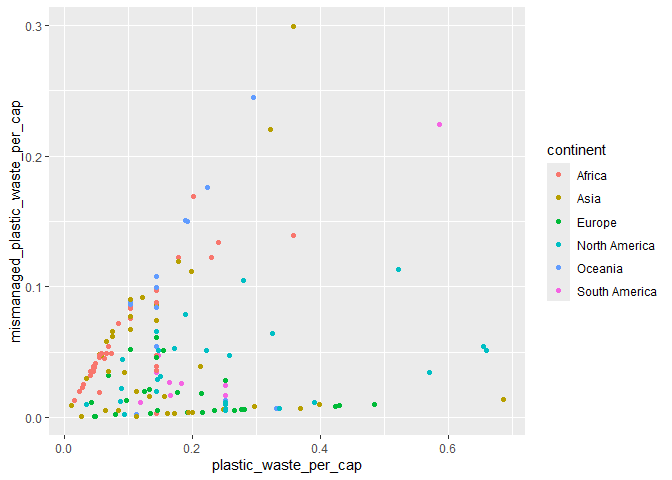
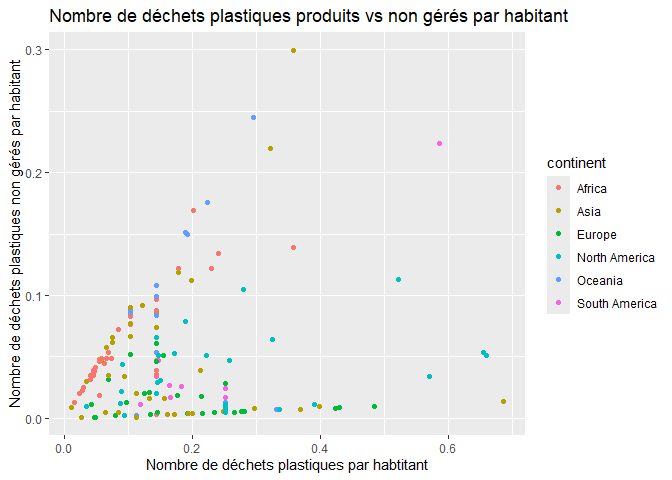
amélioration allure graphique et début conclusion

diff --git a/lab-02.md b/lab-02.md
@@ -47,7 +47,8 @@ ggplot(data = plastic_waste, aes(x = plastic_waste_per_cap)) +
 
 ``` r
 ggplot(plastic_waste, aes(x = plastic_waste_per_cap, colour = continent, fill = continent)) +
-    geom_density(alpha = 0.4)
+    geom_density(alpha = 0.4) +
+  labs(title = "Le densité de déchets plastiques par habitant", subtitle = "Pour chaque continent", x = "Nombre de déchets plastiques par habitant", y = "La densité")
 ```
 
 ![](lab-02_files/figure-gfm/plastic-waste-density-1.png)<!-- -->
@@ -63,7 +64,8 @@ Boxplot:
 
 ``` r
 ggplot(plastic_waste, aes(x = continent, y = plastic_waste_per_cap)) +
-  geom_boxplot()
+  geom_boxplot()+
+  labs(title = "Le nombre de déchets plastiques par habtitant pour chaque continent", x = "Continents", y = "Nombre de déchets plastiques par habitants")
 ```
 
 ![](lab-02_files/figure-gfm/plastic-waste-boxplot-1.png)<!-- -->
@@ -72,7 +74,8 @@ Violin plot:
 
 ``` r
 ggplot(plastic_waste, aes(x = continent, y = plastic_waste_per_cap)) +
-  geom_violin()
+  geom_violin() +
+   labs(title = "Le nombre de déchets plastiques par habtitant pour chaque continent", x = "Continents", y = "Nombre de déchets plastiques par habitants")
 ```
 
 ![](lab-02_files/figure-gfm/plastic-waste-violin-1.png)<!-- -->
@@ -85,7 +88,8 @@ la forme.
 
 ``` r
 ggplot(plastic_waste, aes(x = plastic_waste_per_cap, y = mismanaged_plastic_waste_per_cap, colour = continent)) +
-  geom_point()
+  geom_point() + 
+  labs(title = "Nombre de déchets plastiques produits vs non gérés par habitant", x = "Nombre de déchets plastiques par habtitant", y = "Nombre de déchets plastiques non gérés par habitant")
 ```
 
 ![](lab-02_files/figure-gfm/plastic-waste-mismanaged-1.png)<!-- --> Il
@@ -132,5 +136,15 @@ Réponse à la question…
 Recréez la visualisation:
 
 ``` r
-# insert code here
+ggplot(plastic_waste, aes(x = coastal_pop, y = plastic_waste_per_cap, colour = continent)) +
+  geom_point() +
+  labs(title = "Quantité de déchets plastiques vs Propotion de la population cotière", subtitle = "Selon le continent", x = "Proportion de la population Cotière(Coastal/ total population)", y = "Nombre de déchets plastiques par habitant")
+```
+
+![](lab-02_files/figure-gfm/recreate-viz-1.png)<!-- -->
+
+``` r
+Plastic_waste_coastal <- plastic_waste %>%
+  mutate(coastal_pop_prop = coastal_pop / total_pop) %>%
+  filter(plastic_waste_per_cap < 3)
 ```
